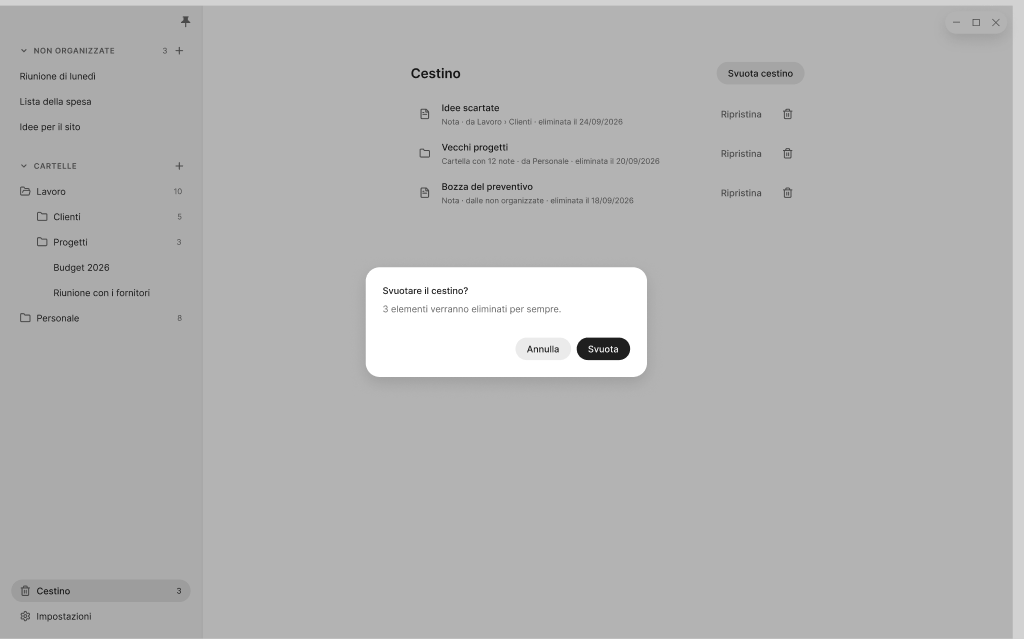
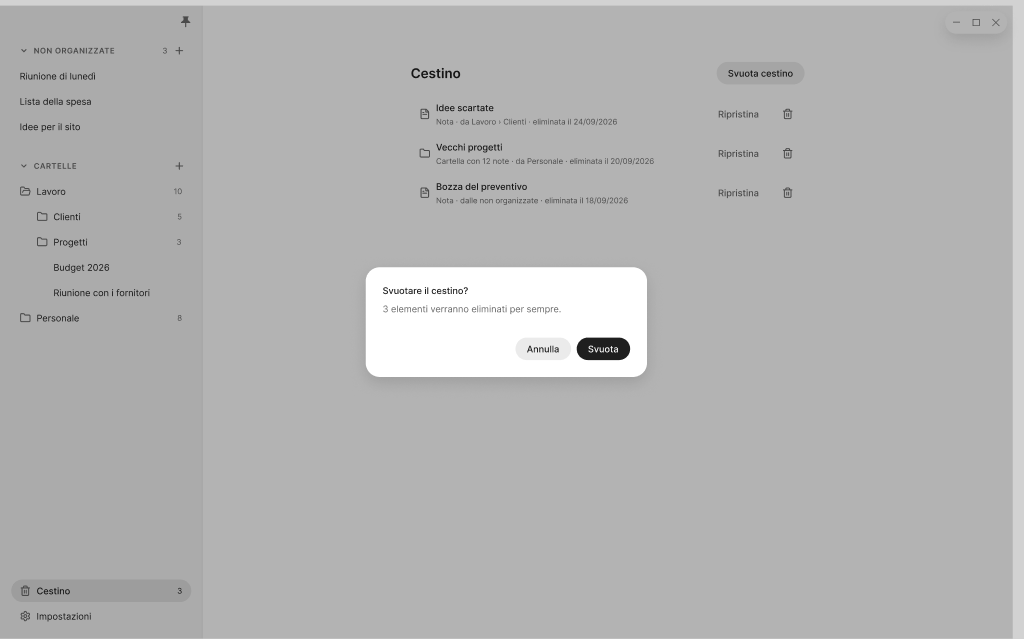
DEC-100: fondo della colonna con l'ombra, cestino e impostazioni
Fondo della colonna (CMP-30) con 16 su tutti i lati e l'ombra verso
l'alto solo quando il contenuto gli scorre sotto (token ombra-sopra);
elementi del cestino e righe di impostazione con la procedura per
padding e gap; Info si restringe restando centrata nelle finestre
strette; title con il titolo intero nel percorso. Mockup allineati,
CMP-30 nei frame della colonna, 5 esportazioni rifatte.

Changed region(s): [[0.4375, 0.1487, 0.6562, 0.3271], [0.6875, 0.2973, 0.75, 0.3271], [0.6875, 0.2379, 0.75, 0.2676]]

diff --git a/client/src/schermate/Colonna.tsx b/client/src/schermate/Colonna.tsx
@@ -6,6 +6,8 @@
 // sotto la riga Impostazioni (DEC-91). In cima, sotto la riga della puntina, la ricerca (DEC-94).
 
 import {
+  useEffect,
+  useRef,
   useState,
   type CSSProperties,
   type DragEvent,
@@ -92,6 +94,35 @@ export function accetta(t: Trascinato, d: Destinazione): boolean {
 export function Colonna(p: Proprieta): ReactElement {
   const [sezioni, setSezioni] = useState({ nonOrganizzate: true, cartelle: true });
   const [sopra, setSopra] = useState<string | null>(null);
+
+  // CMP-30: l'ombra del fondo compare solo quando l'ultima sezione finisce sotto di lui, cioè
+  // quando note e cartelle gli scorrono sotto. Si ricontrolla scorrendo, cambiando misura e
+  // quando il contenuto cambia.
+  const colonna = useRef<HTMLElement>(null);
+  const contenuto = useRef<HTMLDivElement>(null);
+  const fondo = useRef<HTMLDivElement>(null);
+  const [contenutoSotto, setContenutoSotto] = useState(false);
+  useEffect(() => {
+    const controlla = () => {
+      const ultima = contenuto.current?.lastElementChild;
+      if (!ultima || !fondo.current) return;
+      setContenutoSotto(
+        ultima.getBoundingClientRect().bottom > fondo.current.getBoundingClientRect().top + 0.5,
+      );
+    };
+    controlla();
+    const nav = colonna.current;
+    nav?.addEventListener("scroll", controlla, true);
+    window.addEventListener("resize", controlla);
+    const osserva = typeof ResizeObserver === "undefined" ? null : new ResizeObserver(controlla);
+    if (osserva && contenuto.current) osserva.observe(contenuto.current);
+    if (osserva && nav) osserva.observe(nav);
+    return () => {
+      nav?.removeEventListener("scroll", controlla, true);
+      window.removeEventListener("resize", controlla);
+      osserva?.disconnect();
+    };
+  }, []);
 
   /** Gestori del trascinamento per una destinazione. */
   const destinazione = (d: Destinazione) => ({
@@ -229,6 +260,7 @@ export function Colonna(p: Proprieta): ReactElement {
 
   return (
     <nav
+      ref={colonna}
       className={`colonna colonna-${p.stato}`}
       aria-label="Note e cartelle"
       style={{ width: p.larghezza, "--larghezza-colonna": `${p.larghezza}px` } as CSSProperties}
@@ -240,6 +272,7 @@ export function Colonna(p: Proprieta): ReactElement {
           </div>
           {p.ricerca}
           <div
+            ref={contenuto}
             className="colonna-contenuto"
             role="tree"
             aria-label="Note e cartelle"
@@ -290,7 +323,10 @@ export function Colonna(p: Proprieta): ReactElement {
                 ))}
             </div>
           </div>
-          <div className="colonna-fondo">
+          <div
+            ref={fondo}
+            className={`colonna-fondo ${contenutoSotto ? "colonna-fondo-sopra-contenuto" : ""}`}
+          >
             {p.trascinato ? (
               <CestinoTrascinamento
                 sopra={sopra === "cestino"}

diff --git a/client/src/schermate/Cestino.tsx b/client/src/schermate/Cestino.tsx
@@ -76,23 +76,29 @@ export function Cestino({ elementi, onRipristina, onElimina, onSvuota }: Proprie
       <ul className="cestino-elenco">
         {elementi.map((e) => (
           <li key={e.id} className="elemento-cestino">
-            <span className="elemento-cestino-icona">
-              <Icona di={e.tipo === "nota" ? FileText : Folder} />
-            </span>
-            <span className="elemento-cestino-testi">
-              <span className="elemento-cestino-nome interfaccia-titolo">
-                {e.nome || "Nota vuota"}
+            <span className="elemento-cestino-contenuto">
+              <span className="elemento-cestino-icona">
+                <Icona di={e.tipo === "nota" ? FileText : Folder} />
               </span>
-              <span className="elemento-cestino-dettagli interfaccia-dettaglio">{dettagli(e)}</span>
+              <span className="elemento-cestino-testi">
+                <span className="elemento-cestino-nome interfaccia-titolo">
+                  {e.nome || "Nota vuota"}
+                </span>
+                <span className="elemento-cestino-dettagli interfaccia-dettaglio">
+                  {dettagli(e)}
+                </span>
+              </span>
             </span>
-            <Pulsante tipo="tenue" onClick={() => onRipristina(e)}>
-              Ripristina
-            </Pulsante>
-            <PulsanteIcona
-              nome="Elimina definitivamente"
-              icona={<Icona di={Trash2} />}
-              onClick={() => setDaEliminare(e)}
-            />
+            <span className="elemento-cestino-azioni">
+              <Pulsante tipo="tenue" onClick={() => onRipristina(e)}>
+                Ripristina
+              </Pulsante>
+              <PulsanteIcona
+                nome="Elimina definitivamente"
+                icona={<Icona di={Trash2} />}
+                onClick={() => setDaEliminare(e)}
+              />
+            </span>
           </li>
         ))}
       </ul>

diff --git a/client/src/schermate/FinestraPrincipale.css b/client/src/schermate/FinestraPrincipale.css
@@ -125,19 +125,23 @@
   gap: var(--spazio-gruppo);
 }
 
-/* Riga Cestino e cestino di trascinamento restano in fondo alla colonna anche se scorre. */
-/* La riga Cestino resta sul fondo mentre la colonna scorre (DEC-40); il margine sotto è suo,
-   così il suo fondo copre fino al bordo e il contenuto non si intravede sotto. */
-/* Cestino e Impostazioni (DEC-91), 4 tra le due righe. */
+/* CMP-30 Fondo della colonna: Cestino e Impostazioni (DEC-40, DEC-91) restano sul fondo mentre
+   la colonna scorre. È largo quanto la colonna, con spazio-pannello su tutti i lati e 4 tra le
+   righe, così il suo fondo copre fino ai bordi e il contenuto non si intravede sotto. Solo quando
+   note e cartelle gli scorrono sotto ha l'ombra verso l'alto, che lo stacca. */
 .colonna-fondo {
+  --lato-colonna: min(var(--spazio-pannello), calc(var(--larghezza-colonna) / 2));
   display: flex;
   flex-direction: column;
   gap: var(--spazio-elemento);
   position: sticky;
   bottom: 0;
-  margin-top: var(--spazio-blocco);
-  padding-bottom: var(--spazio-pannello);
+  margin: 0 calc(-1 * var(--lato-colonna));
+  padding: var(--spazio-pannello) var(--lato-colonna);
   background: var(--sfondo-colonna);
+}
+.colonna-fondo-sopra-contenuto {
+  box-shadow: var(--ombra-sopra);
 }
 
 .area-nota {

diff --git a/client/src/schermate/Cestino.css b/client/src/schermate/Cestino.css
@@ -32,17 +32,31 @@
   list-style: none;
 }
 
-/* CMP-17: blocco su due righe, margini 12 a sinistra e 8 a destra, 8 sopra e sotto. */
+/* CMP-17 (DEC-100): blocco su due righe, 12 a sinistra, 8 sopra e sotto. Icona e testi si leggono insieme (spazio-icona), testi e pulsanti sono
+   blocchi diversi (spazio-blocco), i due pulsanti stanno affiancati (spazio-icona). La riga
+   finisce con un controllo: a destra spazio-controllo-piccolo. */
 .elemento-cestino {
   display: flex;
   align-items: center;
-  gap: var(--spazio-icona);
+  gap: var(--spazio-blocco);
   padding: var(--spazio-controllo-piccolo) var(--spazio-controllo-piccolo)
     var(--spazio-controllo-piccolo) var(--spazio-controllo);
   border-radius: var(--raggio-interno);
 }
 .elemento-cestino:hover {
   background: var(--sfondo-hover);
+}
+.elemento-cestino-contenuto {
+  display: flex;
+  flex: 1;
+  align-items: center;
+  gap: var(--spazio-icona);
+  min-width: 0;
+}
+.elemento-cestino-azioni {
+  display: flex;
+  align-items: center;
+  gap: var(--spazio-icona);
 }
 .elemento-cestino-icona {
   display: inline-flex;

diff --git a/client/src/schermate/Info.tsx b/client/src/schermate/Info.tsx
@@ -184,13 +184,18 @@ export function Info(p: Proprieta): ReactElement {
 
   const note = (nome: string) => p.tutti.find((t) => stesso(t.nome, nome))?.note ?? 0;
 
-  // La comparsa sta sotto il titolo, centrata su di lui, senza uscire dalla finestra.
+  // La comparsa sta sotto il titolo, centrata su di lui, senza uscire dalla finestra. In una
+  // finestra stretta si restringe: la larghezza vera serve sia alla misura sia alla posizione,
+  // così resta a MARGINE_FINESTRA da entrambi i lati.
+  const larghezza = Math.min(LARGHEZZA, window.innerWidth - 2 * MARGINE_FINESTRA);
   const posizione =
     comparsa && p.ancora
       ? {
+          width: larghezza,
+          maxWidth: "none",
           left: Math.max(
             MARGINE_FINESTRA,
-            Math.min(p.ancora.x - LARGHEZZA / 2, window.innerWidth - LARGHEZZA - MARGINE_FINESTRA),
+            Math.min(p.ancora.x - larghezza / 2, window.innerWidth - larghezza - MARGINE_FINESTRA),
           ),
           top: p.ancora.y + DISTANZA,
         }

diff --git a/client/src/schermate/Info.test.tsx b/client/src/schermate/Info.test.tsx
@@ -280,6 +280,19 @@ describe("CMP-24 Info (DEC-96)", () => {
     expect(f.onChiudi).toHaveBeenCalledTimes(1);
   });
 
+  it("in una finestra stretta la comparsa si restringe e resta a 8 da entrambi i lati", () => {
+    const prima = window.innerWidth;
+    Object.defineProperty(window, "innerWidth", { configurable: true, value: 300 });
+    try {
+      apri(nota, "comparsa");
+      const info = screen.getByRole("dialog", { name: "Info di Budget 2026" });
+      expect(info.style.width).toBe("284px");
+      expect(info.style.left).toBe("8px");
+    } finally {
+      Object.defineProperty(window, "innerWidth", { configurable: true, value: prima });
+    }
+  });
+
   it("senza titolo il campo è vuoto con «Senza titolo» (RB-15)", () => {
     apri({ ...nota, titolo: "" }, "comparsa");
     const campo = screen.getByRole("textbox", { name: "Titolo" });

diff --git a/client/src/componenti/RigaImpostazione.css b/client/src/componenti/RigaImpostazione.css
@@ -1,14 +1,19 @@
-/* CMP-18: larga quanto la pagina (560), margini 12, 16 tra testo e controllo. */
+/* CMP-18 (DEC-100): larga quanto la pagina (560), 12 a sinistra, 16 tra testo e controllo; a
+   destra finisce con il controllo e ha spazio-controllo-piccolo, senza controllo 12. */
 .riga-impostazione {
   display: flex;
   align-items: center;
   gap: var(--spazio-blocco);
   width: 100%;
-  padding: var(--spazio-controllo-piccolo) var(--spazio-controllo);
+  padding: var(--spazio-controllo-piccolo) var(--spazio-controllo-piccolo)
+    var(--spazio-controllo-piccolo) var(--spazio-controllo);
   border: none;
   border-radius: var(--raggio-interno);
   background: none;
   text-align: left;
+}
+.riga-impostazione:has(> .riga-impostazione-testi:only-child) {
+  padding-right: var(--spazio-controllo);
 }
 .riga-impostazione-testi {
   display: flex;

diff --git a/client/src/componenti/Percorso.test.tsx b/client/src/componenti/Percorso.test.tsx
@@ -29,6 +29,13 @@ describe("CMP-26 Percorso (DEC-71, DEC-96)", () => {
     expect(screen.getByRole("button", { current: "page" })).toHaveTextContent("Senza titolo");
   });
 
+  it("passando sul titolo si legge intero, anche quando finisce con i puntini", () => {
+    render(<Percorso {...base} cartella="" titolo="Un titolo molto lungo che non sta" />);
+    expect(
+      screen.getByRole("button", { name: "Un titolo molto lungo che non sta" }),
+    ).toHaveAttribute("title", "Un titolo molto lungo che non sta");
+  });
+
   it("con più di due cartelle quelle di mezzo diventano «…», che le elenca", async () => {
     render(<Percorso {...base} cartella="Lavoro/Clienti/Preventivi" titolo="Budget 2026" />);
     expect(screen.queryByRole("button", { name: "Clienti" })).not.toBeInTheDocument();

diff --git a/client/src/componenti/Percorso.tsx b/client/src/componenti/Percorso.tsx
@@ -95,6 +95,8 @@ export function Percorso({
             aria-current="page"
             aria-haspopup="dialog"
             aria-expanded={infoAperta}
+            // Il titolo lungo finisce con i puntini: passandoci sopra si legge intero.
+            title={titolo || "Senza titolo"}
             onClick={(e) => {
               const r = e.currentTarget.getBoundingClientRect();
               onApriInfo({ x: r.left + r.width / 2, y: r.bottom });

diff --git a/client/src/stili/token.css b/client/src/stili/token.css
@@ -85,6 +85,8 @@
 
   /* Ombra (regola 5) */
   --ombra: 0 8px 24px var(--ombra-flottante);
+  /* Verso l'alto: il fondo della colonna quando il contenuto gli scorre sotto (CMP-30). */
+  --ombra-sopra: 0 -4px 12px var(--ombra-flottante);
 
   /* Scala z-index */
   --z-base: 0;

diff --git a/docs/design-system/componenti.md b/docs/design-system/componenti.md
@@ -35,6 +35,7 @@ I componenti vivono nel file Figma [Memodu – Design system](https://www.figma.
 | CMP-27 | Comparsa dei metadati (DEC-71) | composto | Superato da CMP-24 (DEC-96) |
 | CMP-28 | Scelta a segmenti (tema, DEC-91) | base | Disegnato |
 | CMP-29 | Ricerca avanzata (DEC-96) | composto | Disegnato |
+| CMP-30 | Fondo della colonna (Cestino e Impostazioni, ombra quando il contenuto scorre sotto) | composto | Disegnato |
 
 L'icona nell'area di notifica (Windows) o nella barra dei menu (macOS) è un'icona di sistema e non è un componente.
 
@@ -700,7 +701,7 @@ Scegliere un giorno scrive la data nel campo, salva (RB-06) e chiude il calendar
 
 ### Varianti e dimensioni
 - **Nota** e **Cartella**: icona Lucide 16 (`file-text` o `folder`) in `icona-tenue`, nome Interfaccia/Titolo, sotto tipo, provenienza e data di eliminazione (Interfaccia/Dettaglio, `testo-tenue`; per le cartelle anche il numero di note). A destra Ripristina (pulsante tenue) ed **Elimina definitivamente** (pulsante solo icona con il cestino e il suggerimento "Elimina definitivamente", DEC-17): chiede conferma (CMP-16, RB-55).
-- Largo 560, margini 12 a sinistra, 8 a destra, 8 sopra e sotto, su `sfondo-nota`. Blocco su due righe: hover con `raggio-interno`.
+- Largo 560, su `sfondo-nota`. Blocco su due righe: hover con `raggio-interno`. Spazi (DEC-100): `spazio-controllo` (12) a sinistra, `spazio-controllo-piccolo` (8) a destra, perché finisce con i pulsanti, e sopra e sotto, come ogni riga su più linee; `spazio-icona` (8) tra icona e testi, `spazio-blocco` (16) tra i testi e i pulsanti, `spazio-icona` (8) tra Ripristina ed Elimina definitivamente.
 
 ### Stati
 | Stato | Descrizione |
@@ -737,7 +738,7 @@ Scegliere un giorno scrive la data nel campo, salva (RB-06) e chiude il calendar
 - **Scelta:** etichetta e descrizione a sinistra, scelta a segmenti (CMP-28) a destra, es. il tema Sistema · Chiaro · Scuro (DEC-91). Si attiva solo la scelta.
 - **Scorciatoia:** come Campo, con il campo della combinazione e a destra il pulsante tenue «Ripristina», che torna al valore di default. Si clicca il campo e si preme la combinazione nuova; se un altro programma la usa già, l'errore è nel campo e resta la vecchia (DEC-91).
 - **Informazione:** etichetta e valore in `testo-tenue`, senza controllo e senza hover, es. «Stato · Sincronizzata alle 14:32» (DEC-91).
-- Largo 560, margini 12, 16 tra testo e controllo, su `sfondo-nota`.
+- Largo 560, su `sfondo-nota`. Spazi (DEC-100): `spazio-controllo` (12) a sinistra; a destra `spazio-controllo-piccolo` (8) quando la riga finisce con un controllo (interruttore, campo, scelta, pulsante), `spazio-controllo` (12) senza controllo (Informazione); `spazio-controllo-piccolo` (8) sopra e sotto; `spazio-blocco` (16) tra testo e controllo.
 
 ### Stati
 | Stato | Descrizione |
@@ -1129,3 +1130,33 @@ Compare e sparisce con `movimento-durata-breve` (120 ms).
 ### Esempi
 - ✅ Corretto: dalla card con «rilascio» scritto, «Mostra tutti i risultati», poi spuntare il tag lavoro senza aprire menu.
 - ❌ Scorretto: aprire la ricerca avanzata vuota, perdendo quello che si era scritto nella card.
+
+---
+
+## CMP-30 – Fondo della colonna
+**Tipo:** composto (usa CMP-06 Cestino e Impostazioni) · **Usato in:** SC-01, SC-03, SC-04, SC-06 (in fondo alla colonna) · **Figma:** pagina Componenti composti, sezione CMP-30 Fondo della colonna
+
+**Scopo:** tenere Cestino e Impostazioni sempre raggiungibili in fondo alla colonna, anche mentre note e cartelle scorrono (DEC-40, DEC-91).
+**Quando usarlo:** solo in fondo alla colonna.
+**Quando non usarlo:** per altre azioni della colonna, che stanno nelle sezioni (CMP-06).
+
+### Varianti e dimensioni
+- Largo quanto la colonna, su `sfondo-colonna`, fermo sul fondo mentre la colonna scorre. Ruolo pannello (DEC-100): `spazio-pannello` (16) su tutti i lati, così sopra Cestino c'è lo stesso spazio che sotto Impostazioni; `spazio-elemento` (4) tra le due righe.
+- **Contenuto sotto = No:** nessuna ombra, quando tutto il contenuto sta sopra di lui.
+- **Contenuto sotto = Sì:** quando note e cartelle gli scorrono sotto, l'ombra verso l'alto `ombra-sopra` (0 −4 12, colore `ombra-flottante`) lo stacca dal contenuto.
+- Durante il trascinamento la riga Cestino diventa il cestino di trascinamento (CMP-14).
+
+### Stati
+| Stato | Descrizione |
+|---|---|
+| Default | Come nelle varianti; l'ombra dipende da cosa c'è sotto |
+| Hover · Focus · Attivo | Li gestiscono le righe (CMP-06) |
+| Errore · Disabilitato · Caricamento | Non previsti |
+
+### Accessibilità
+- **Tastiera e lettori di schermo:** come le righe Cestino e Impostazioni (CMP-06); l'ombra è solo visiva.
+- **Contrasti:** come CMP-06 su `sfondo-colonna`.
+
+### Esempi
+- ✅ Corretto: colonna lunga, scorsa in cima: il fondo ha l'ombra e le note gli passano sotto; scorsa fino in fondo: l'ombra sparisce.
+- ❌ Scorretto: l'ombra sempre accesa, anche quando sotto non c'è niente.

diff --git a/docs/registri/storico.md b/docs/registri/storico.md
@@ -391,3 +391,6 @@
 | 01/10/2026 | Agente IA | Codice di DEC-99 e DEC-100: token `spazio-elenco`, `spazio-pannello`, `spazio-rientro`; Info e ricerca avanzata a 16; colonna con la cartella chiusa o aperta, righe a 12, icona e testo a 8, rientro 24; Sposta in con le cartelle e rientro 24; misure controllate nell'app; prove automatiche aggiornate (186) | DEC-99, DEC-100 |
 | 01/10/2026 | Manuel Cucca | Avviso (CMP-15) a `spazio-pannello` (16) su tutti i lati, nella libreria e nel codice | DEC-100 |
 | 01/10/2026 | Agente IA | Mockup allineati all'Avviso a 16 (SC-01, errore) e alla nota rapida aggiornata (SC-02, senza cambi visibili); esportazione rifatta | DEC-100 |
+| 01/10/2026 | Manuel Cucca | Elemento del cestino (CMP-17) e riga di impostazione (CMP-18) con la procedura di DEC-100, nella libreria e nel codice; Info si restringe nelle finestre strette restando centrata; passando sul titolo del percorso si legge il titolo intero | DEC-100 |
+| 01/10/2026 | Manuel Cucca | Fondo della colonna (CMP-30): Cestino e Impostazioni in un box con 16 su tutti i lati e l'ombra verso l'alto solo quando il contenuto gli scorre sotto; token `ombra-sopra`; nel codice e in `componenti.md` | DEC-100 |
+| 01/10/2026 | Agente IA | Mockup allineati: elementi del cestino e righe di impostazione aggiornati (SC-04, SC-06); il fondo della colonna è ora il componente CMP-30 in 35 frame di SC-01, SC-03, SC-04 e SC-06, con le righe negli stessi punti; 5 esportazioni rifatte | DEC-100 |
